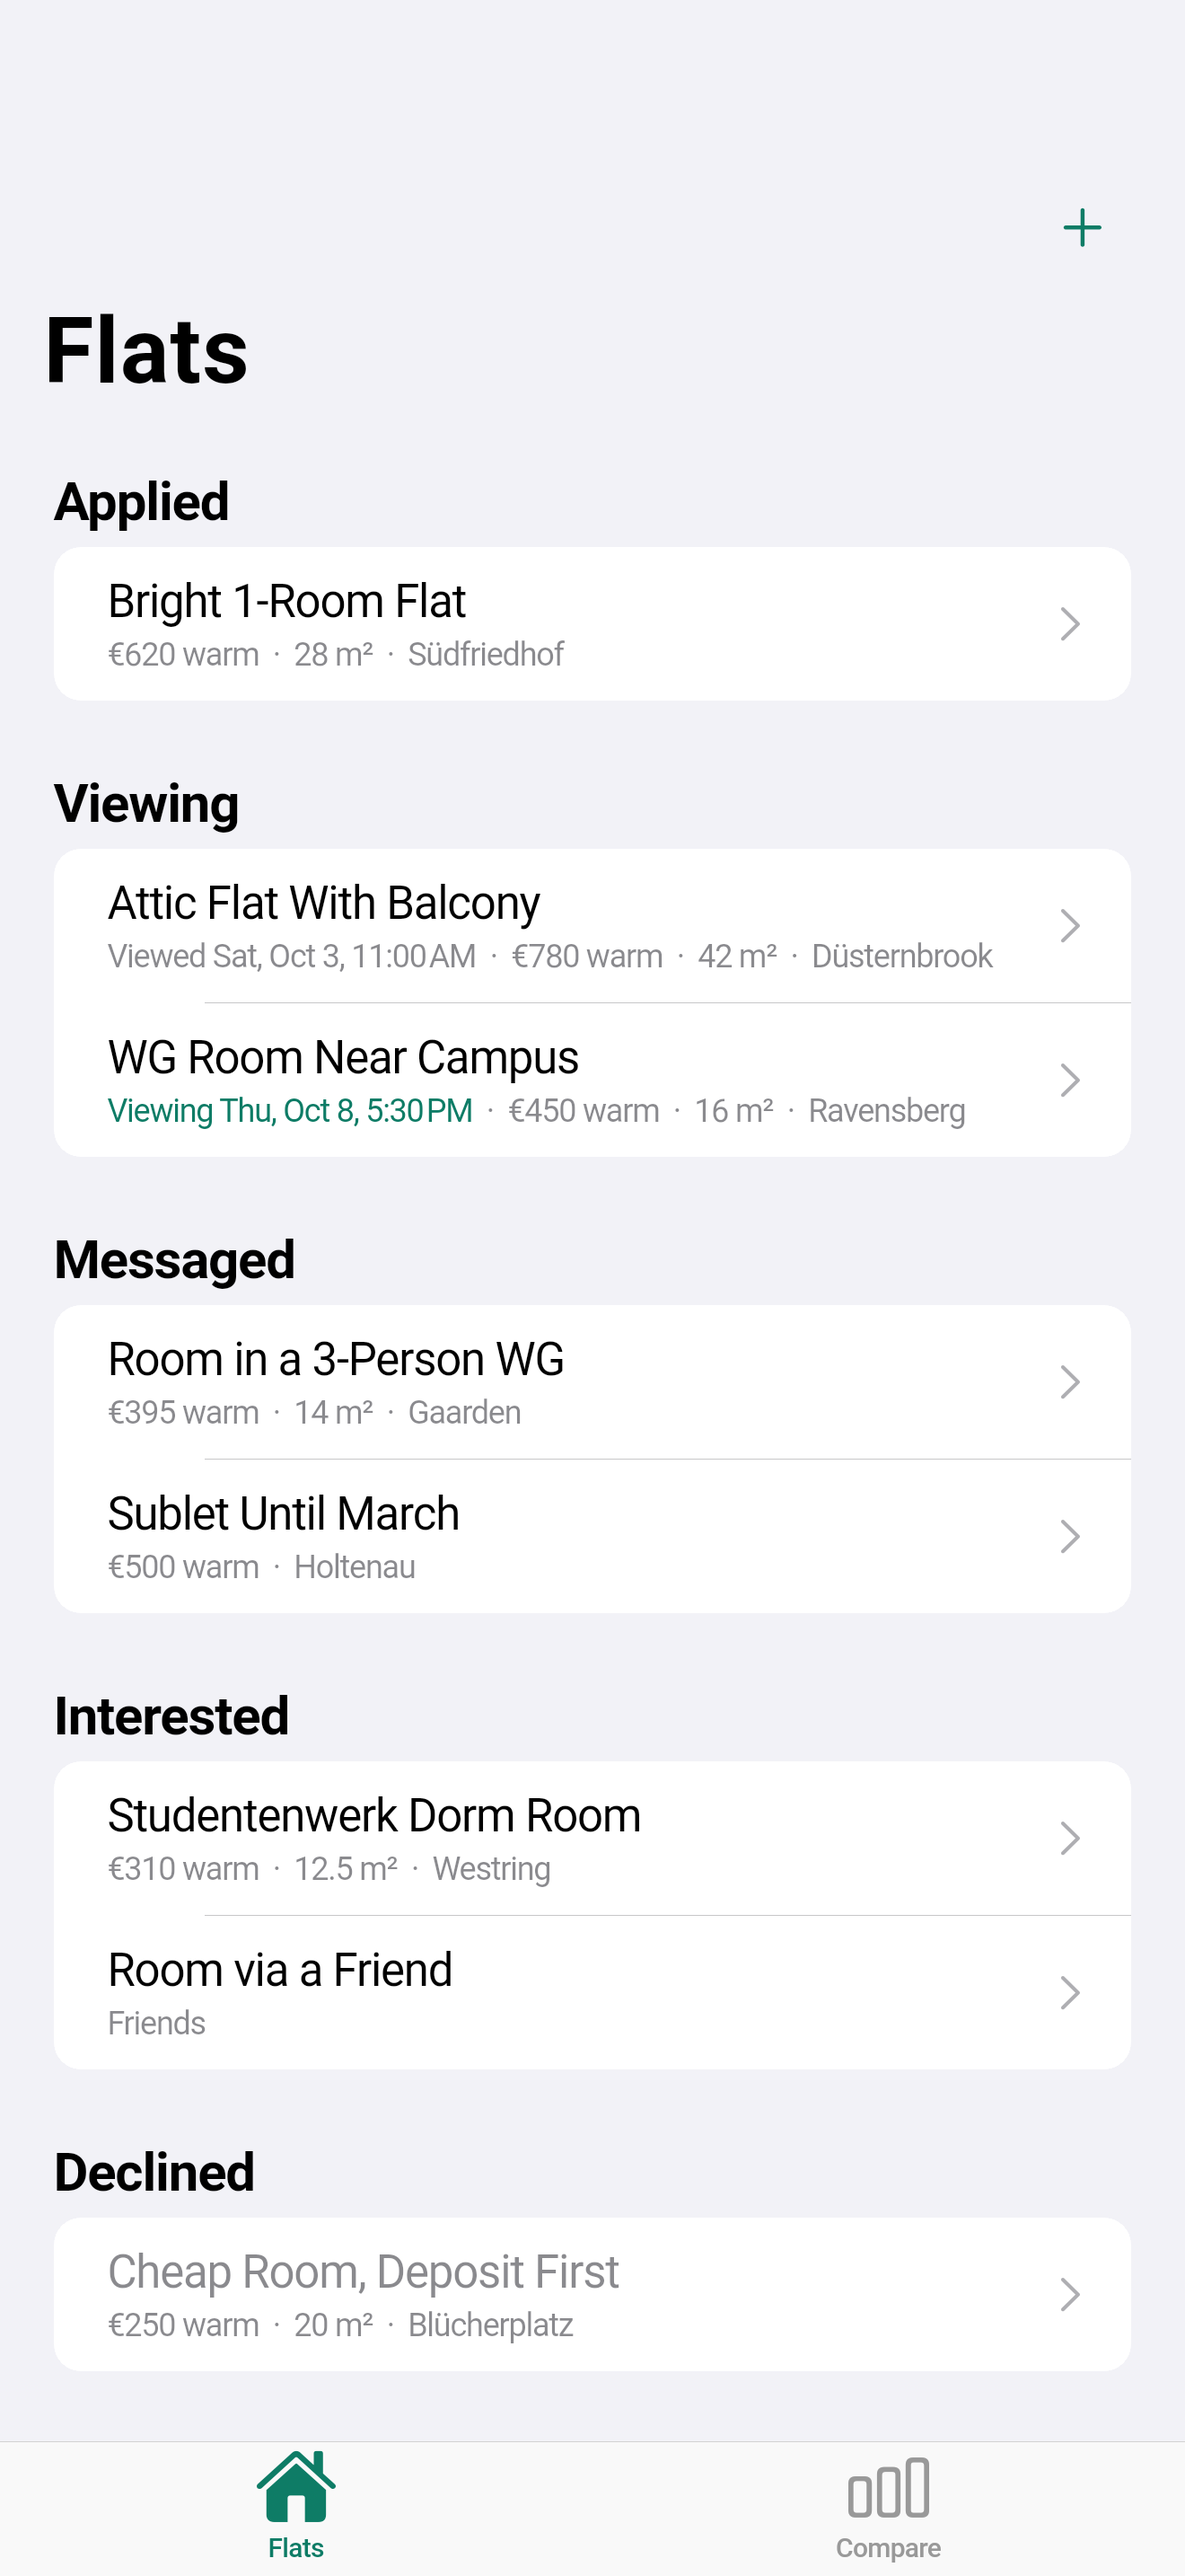
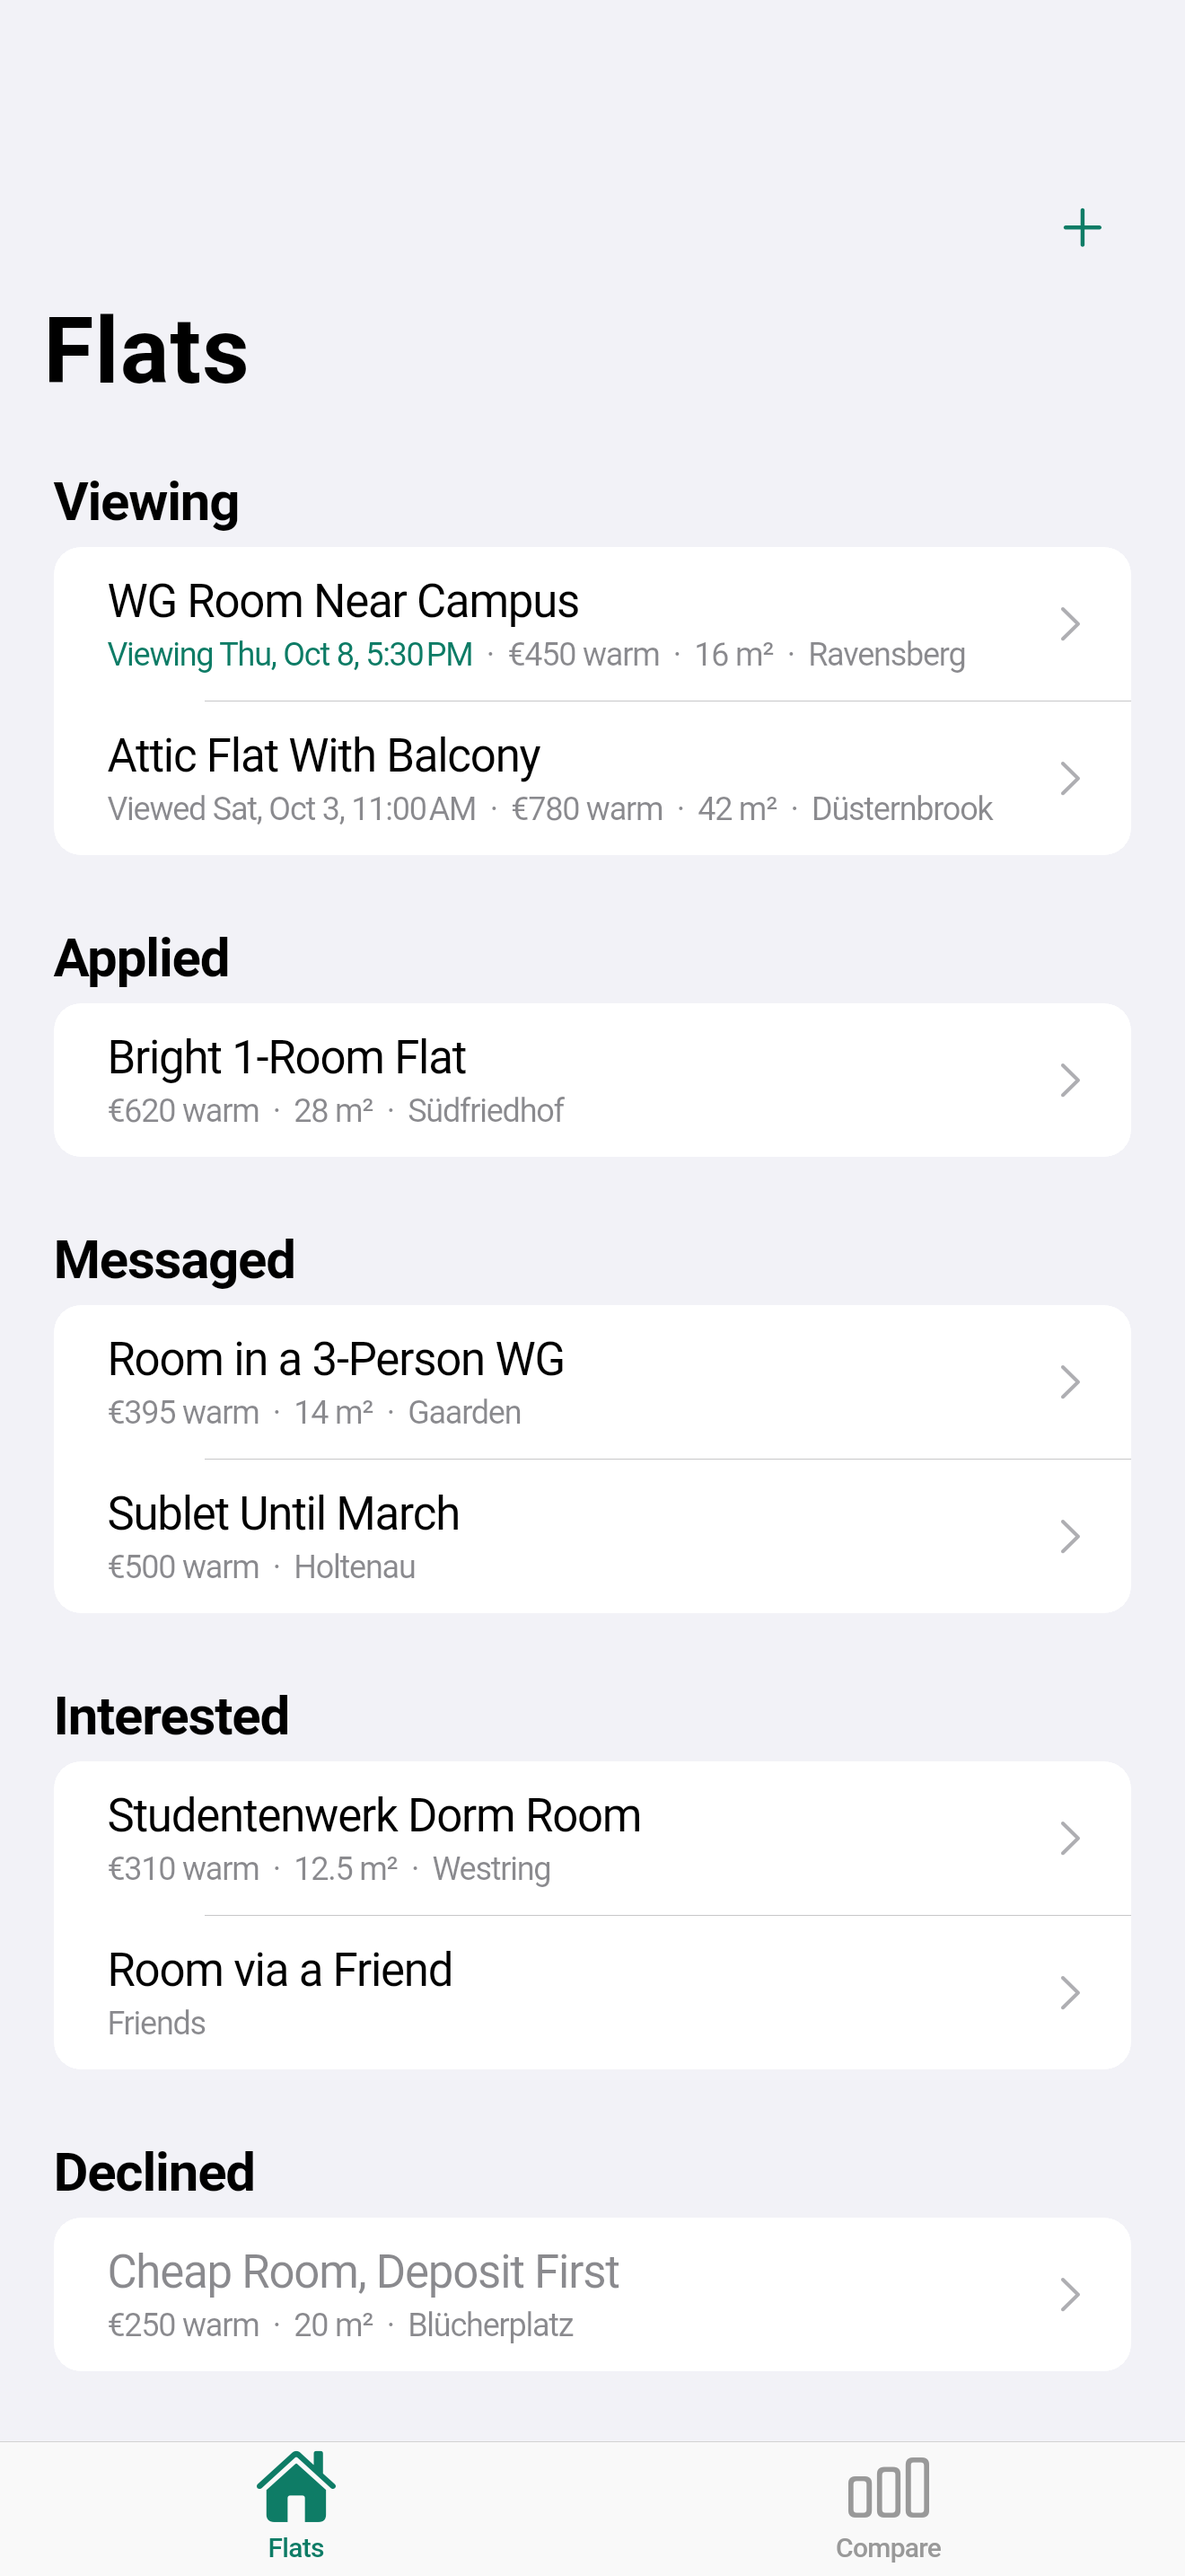
WIP snapshot: halfday build and reviews in progress
Claude-Session: https://claude.ai/code/session_01Y9VaCzfWjGkDBBKYXkUCot

diff --git a/apps/flathunt/test/board_test.dart b/apps/flathunt/test/board_test.dart
@@ -26,6 +26,10 @@ void main() {
       expect(parseCents('480.5'), 48050);
       expect(parseCents(' 480 € '), 48000);
       expect(parseCents('€480'), 48000);
+      expect(parseCents('480,-'), 48000);
+      expect(parseCents('480.--'), 48000);
+      expect(parseCents('480 EUR'), 48000);
+      expect(parseCents('1.200,- €'), 120000);
     });
 
     test('grouping in either style', () {
@@ -97,6 +101,17 @@ void main() {
     expect(b.moveTo('nope', Stage.applied, now), same(b));
   });
 
+  test('setting the time later clears an old viewing time', () {
+    final now = DateTime(2026, 10, 6, 12);
+    var b = const Board().add(flat);
+    b = b.moveTo('f1', Stage.viewing, now, viewing: DateTime(2026, 10, 1, 17));
+    b = b.moveTo('f1', Stage.applied, now);
+    expect(b.flat('f1')!.viewing, isNotNull);
+    b = b.moveTo('f1', Stage.viewing, now, clearViewing: true);
+    expect(b.flat('f1')!.stage, Stage.viewing);
+    expect(b.flat('f1')!.viewing, isNull);
+  });
+
   test('toggling a check adds and removes it', () {
     var b = const Board().add(flat);
     b = b.toggleCheck('f1', Check.viewed);
@@ -105,18 +120,33 @@ void main() {
     expect(b.flat('f1')!.checks, isEmpty);
   });
 
-  test('viewings sort by time, flats without a time last', () {
+  test('viewings: upcoming soonest first, then no time, then past', () {
     final b = heavyBoard();
-    final viewing = b.inStage(Stage.viewing);
-    expect(viewing.first.id, 'f6');
-    expect(viewing.last.viewing, isNull);
-    for (var i = 1; i < viewing.length - 1; i++) {
-      expect(viewing[i].viewing!.isAfter(viewing[i - 1].viewing!), isTrue);
+    final viewing = b.inStage(Stage.viewing, demoToday);
+    final upcoming = [
+      for (final f in viewing)
+        if (f.viewing != null && !f.viewing!.isBefore(demoToday)) f,
+    ];
+    expect(viewing.first.viewing!.isBefore(demoToday), isFalse);
+    for (var i = 1; i < upcoming.length; i++) {
+      expect(upcoming[i].viewing!.isAfter(upcoming[i - 1].viewing!), isTrue);
+    }
+    final rest = viewing.skip(upcoming.length).toList();
+    final noTime = rest.takeWhile((f) => f.viewing == null).length;
+    final past = rest.skip(noTime).toList();
+    expect(past.every((f) => f.viewing!.isBefore(demoToday)), isTrue);
+    for (var i = 1; i < past.length; i++) {
+      expect(past[i].viewing!.isBefore(past[i - 1].viewing!), isTrue);
     }
   });
 
+  test('typical board: the upcoming viewing comes before the past one', () {
+    final viewing = typicalBoard().inStage(Stage.viewing, demoToday);
+    expect(viewing.map((f) => f.id), ['f1', 'f6']);
+  });
+
   test('other stages sort by how long they waited', () {
-    final messaged = typicalBoard().inStage(Stage.messaged);
+    final messaged = typicalBoard().inStage(Stage.messaged, demoToday);
     expect(messaged.map((f) => f.id), ['f3', 'f5']);
   });
 
